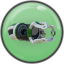
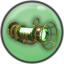
added translocator variants

diff --git a/js/gameClasses.js b/js/gameClasses.js
@@ -135,7 +135,8 @@ const gameClasses = {
     'BuyTranslocatorModule_C'                 : new GameClass('Translocator Module',              'translocator_cooldown',    'upgrades', 'shop'),
     'BuyTranslocatorShotForce_C'              : new GameClass('Translocator Shot Force',          'translocator_distance',    'upgrades', 'shop'),
     'BuyTranslocatorWeight_C'                 : new GameClass('Translocator Weight',              'translocator_damage',      'upgrades', 'shop'),
-    'BuyTranslocator_C'                       : new GameClass('Translocator',                     'translocator',             'upgrades', 'shop'),
+    'SIU:BuyTranslocator_C'                       : new GameClass('Translocator',                     'translocator_siu',         'upgrades', 'shop'),
+    'SL1:BuyTranslocator_C'                   : new GameClass('Translocator',                     'translocator',             'upgrades', 'shop'),
     'BuyTranslocator_Fake_C'                  : new GameClass('Translocator Fake',                null,                       'upgrades', 'shop'),
     'BuyTripleJump_C'                         : new GameClass('Triple Jump',                      'triple_jump',              'upgrades', 'shop'),
     'BuyUpgradeChestNum_C'                    : new GameClass('Upgrade Chest Num',                'see_chest_count',          'upgrades', 'shop'),
